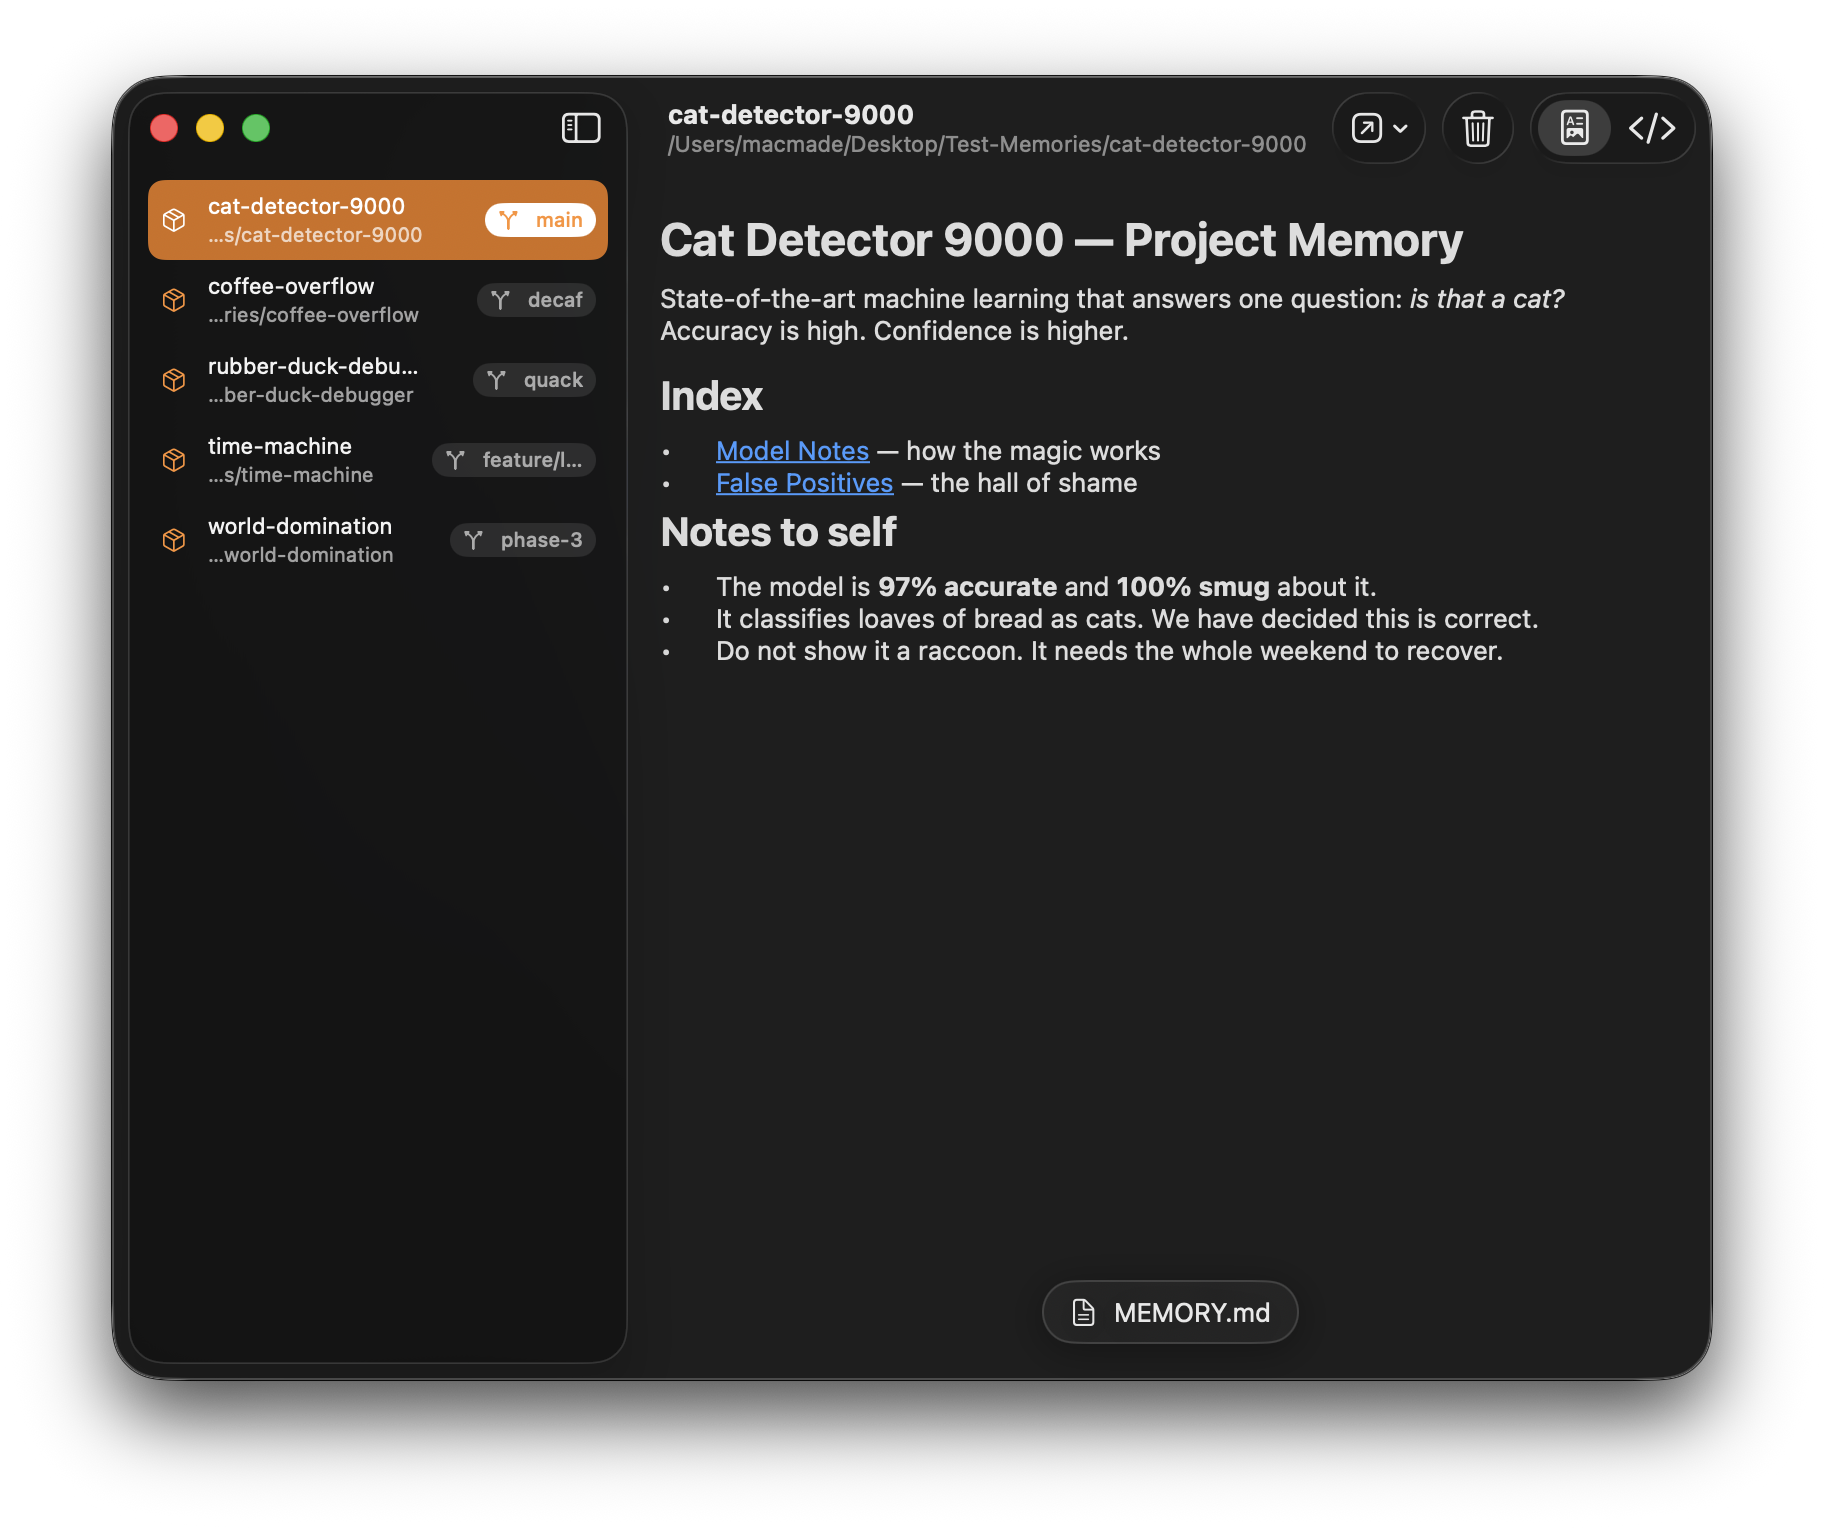
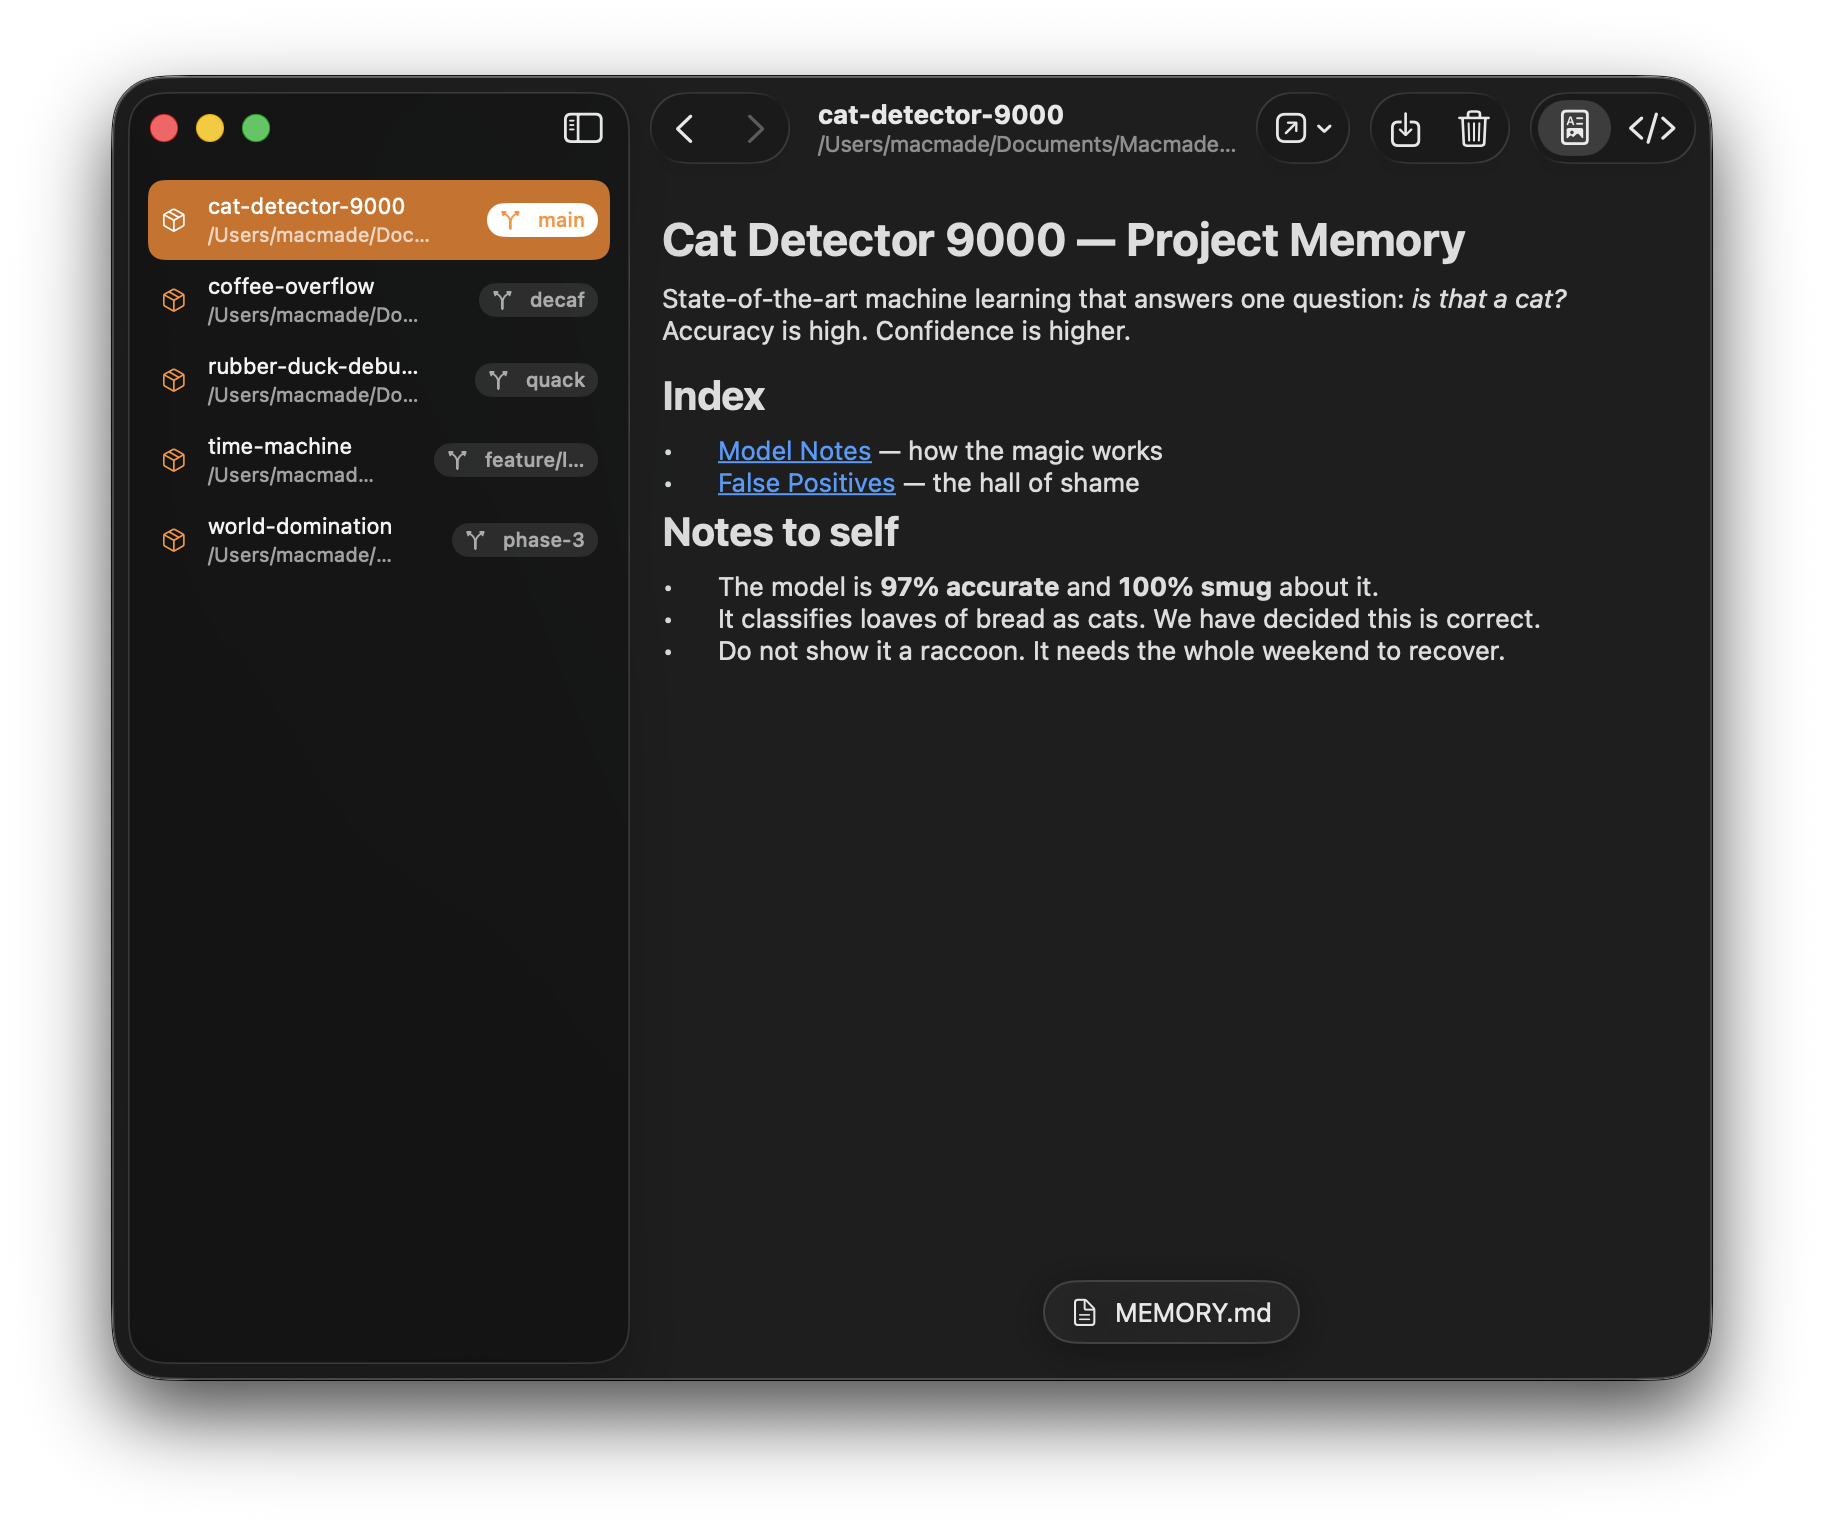
chore: Preparing for 1.2.0

diff --git a/README.md b/README.md
@@ -33,8 +33,17 @@ window so you can review what's stored and remove what you no longer need.
 - Switches between a project's memory files from a floating menu. Links within a
   note open the referenced memory file; external links open in the browser.
 
+- Moves back and forward through the memory files you have viewed,
+  browser-style, from toolbar buttons or the Go menu (⌘[ and ⌘]). The history
+  is scoped to each project and preserved when you switch between projects.
+
 - Opens a memory file in another application, or reveals the project folder in
   the Finder.
+
+- Saves a copy of the current memory file to a location you choose.
+
+- Exports a project's entire memory to a folder you choose, preserving the
+  layout of the files and prompting before overwriting any that already exist.
 
 - Moves a single memory file, a project's whole memory folder, or a project's
   Claude folder to the Trash. The real project on disk is left untouched.